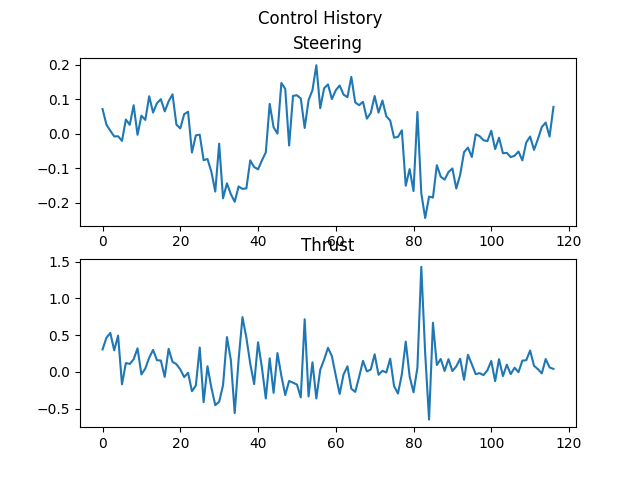
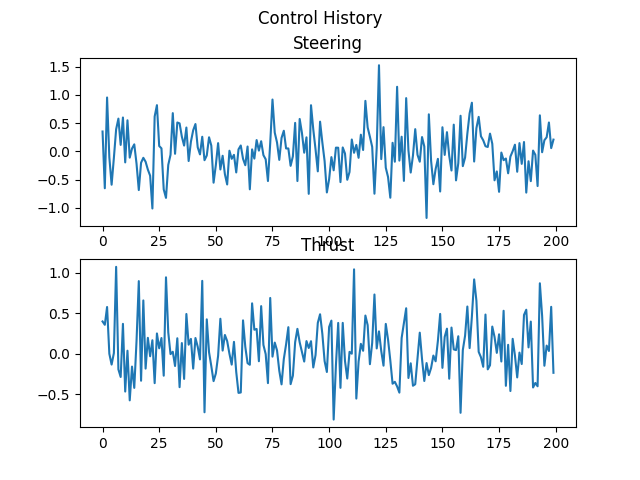
cost_per_step and similar strategy

diff --git a/car_controller.py b/car_controller.py
@@ -29,25 +29,33 @@ import math
 from scipy.integrate import odeint
 
 #Covariance Matrix for the input distribution
-INITIAL_COVARIANCE = [[0.01, 0], [0, 0.1]] 
+INITIAL_COVARIANCE = [[0.0, 0], [0, 0.0]] 
 
 #Covariance matrix for every next-step in the trajectory prediction
-STEP_COVARIANCE = [[0.1,0],[0,0]]
+STEP_COVARIANCE = [[0.2, 0],[0,0.1]]
 NUMBER_OF_STEPS_PER_TRAJECTORY = 30
 
 # Must be between 0 and 1 and defines how close to a random walk the trajectories are
 # 0: The trajectories are calculated by a completely random control with mean = 0 and variance = step_covariance0 
 # 1: The trajectories are a random walk with mean = last control and variance = step_covariance
-RANDOM_WALK = 0.0
+RANDOM_WALK = 0.3
 
 #Number of trajectories that are calculated for every step
-NUMBER_OF_TRAJECTORIES = 100
+NUMBER_OF_INITIAL_TRAJECTORIES = 1000
+
+#Covariance for calculating simmilar controls to the last one
+STRATEGY_COVARIANCE=[[0.01, 0],[0, 0.01]]   
+NUMBER_OF_TRAJECTORIES = 30
+
+NUMBER_OF_NEXT_WAYPOINTS = 50
 
 #With of the race track (ToDo) 
 DIST_TOLLERANCE = 4 
 INVERSE_TEMP = 10
 DRAW_CHOSEN_SEQUENCE = True
 DRAW_TRAJECTORIES = True
+
+MAX_COST = 1000
 
 def column(matrix, i):
         return [row[i] for row in matrix]
@@ -74,10 +82,11 @@ class CarController:
         self.parameters = parameters_vehicle2()
         self.time = 0 #TODO:
         self.tControlSequence = 0.2  # [s] How long is a control input applied
-        self.tEulerStep = 0.05 # [s] One step of solving the ODEINT
+        self.tEulerStep = 0.01 # [s] One step of solving the ODEINT
         self.tHorizon = 4 # [s] TODO How long should routes be calculated
         self.history = [] #Hostory of real car states
         self.simulated_history = [] #Hostory of simulated car states
+        self.simulated_costs = [] #Hostory of simulated car states
         self.car = car
         self.track = self.car.track #Track waypoints for drawing
         self.last_control_input = [0,0]
@@ -85,6 +94,12 @@ class CarController:
         self.collect_distance_costs = []
         self.collect_speed_costs = []
         self.collect_progress_costs = []
+        self.best_control_sequenct = initial_sequence
+        # self.best_control_sequenct = [] #initial_sequence
+        
+        self.update_trackline()
+       
+
 
 
     def set_state(self, state):
@@ -94,6 +109,17 @@ class CarController:
     Dynamics of the simulated car from common road
     We can define different models here
     '''
+
+    def update_trackline(self):
+         # only Next NUMBER_OF_NEXT_WAYPOINTS points of the track
+        waypoint_modulus = self.track.waypoints.copy()
+        waypoint_modulus.extend(waypoint_modulus[:NUMBER_OF_NEXT_WAYPOINTS])
+
+        closest_to_car_position = self.track.get_closest_index(self.state[:2])
+        waypoint_modulus = waypoint_modulus[closest_to_car_position: closest_to_car_position+ NUMBER_OF_NEXT_WAYPOINTS]
+
+        self.trackline = geom.LineString(waypoint_modulus)
+
     def func_KS(self,x, t, u, p):
         # f = vehicle_dynamics_ks(x, u, p)
         f = vehicle_dynamics_st(x, u, p)
@@ -111,8 +137,8 @@ class CarController:
     '''
     def simulate_step(self, state, control_input):
         t = np.arange(0, self.tControlSequence, self.tEulerStep) 
-        x_next = solveEuler(self.func_KS, state, t, args=(control_input, self.parameters))
-        # x_next = odeint(self.func_KS, state, t, args=(control_input, self.parameters))
+        # x_next = solveEuler(self.func_KS, state, t, args=(control_input, self.parameters))
+        x_next = odeint(self.func_KS, state, t, args=(control_input, self.parameters))
         return x_next[-1]
 
     '''
@@ -120,42 +146,70 @@ class CarController:
     @control_inputs: list of control inputs, which last 0.01s each
     '''
     def simulate_trajectory(self, control_inputs):
-
+        original_car_position = geom.Point(self.state[:2])
         simulated_time = self.time
         simulated_state = self.state
         simulated_trajectory = []
+        cost = 0
+        index = 0 
+        number_of_states = len(control_inputs) 
+
+        
+
         for control_input in control_inputs:
+            if cost > MAX_COST:
+                cost = MAX_COST
+                # continue
             simulated_state = self.simulate_step(simulated_state, control_input)
-
             simulated_trajectory.append(simulated_state)
-        return simulated_trajectory
 
+            discount = (number_of_states - 0.5 * index) / number_of_states
+            cost +=  discount * self.cost_per_step(simulated_state)
+            
+            index += 1
 
-    def f(self,x):
-        return 2*x
+        simulated_position = geom.Point(simulated_state[:2])
+        progress = original_car_position.distance(simulated_position)
+        # print("Progress", progress)
+        progress_cost = 2000/progress
+
+        # print("progress_cost", progress_cost)
+        # print("Cost", cost)
+
+        cost = cost + progress_cost
+        # print("Cost for whole trajectory", cost )
+        return simulated_trajectory, cost 
+
 
     '''
     Returns a trajectory for every control input in control_inputs_distribution
     '''
     def simulate_trajectory_distribution(self, control_inputs_distrubution):
         self.simulated_history = []
-        start = time.time()
-        result = []
-        with Pool(8) as p:
-            result = p.map(self.simulate_trajectory, 
-            control_inputs_distrubution) 
-        self.simulated_history = result
-        end = time.time()
-        print("TIME FOR 50 Trajectories")
-        print(end - start)
+        # start = time.time()
+        results = []
+        costs = []
+        for control_input in control_inputs_distrubution:
+            simulated_trajectory, cost = self.simulate_trajectory(control_input)
+            results.append(simulated_trajectory)
+            costs.append(cost)
 
-        return result
+        # with Pool(8) as p:
+        #     results = p.map(self.simulate_trajectory, 
+        #     control_inputs_distrubution) 
+
+        self.simulated_history = results
+        self.simulated_costs = costs
+        # end = time.time()
+        # print("TIME FOR 50 Trajectories")
+        # print(end - start)
+        return results, costs
 
     '''
     Returns a gaussian distribution around the last control input
     '''
     def sample_control_inputs(self, last_control_input):
-        initial_steering, initial_acceleration = np.random.multivariate_normal(last_control_input, INITIAL_COVARIANCE, NUMBER_OF_TRAJECTORIES).T
+        initial_steering, initial_acceleration = np.random.multivariate_normal(last_control_input, INITIAL_COVARIANCE, NUMBER_OF_INITIAL_TRAJECTORIES).T
 
         control_input_sequences = [0]*len(initial_steering)
         for i in range(len(initial_steering)):
@@ -174,10 +228,38 @@ class CarController:
                 control_input_sequences[i].append([step_steering, step_acceleration])
                 next_control_input[0] = step_steering
                 next_control_input[1] = step_acceleration
+        control_input_sequences = np.array(control_input_sequences)
 
-        return np.array(control_input_sequences)
+        return control_input_sequences
 
 
+    def sample_control_inputs_similar_to_last(self, last_control_sequence):
+
+        #Not initialized
+        if(len(last_control_sequence) == 0):
+            return self.sample_control_inputs([0,0])
+
+        #Delete the first step of the last control sequence because it is already done
+        #To keep the length of the control sequence add one to the end
+        last_control_sequence = last_control_sequence[1:]
+        last_control_sequence = np.append(last_control_sequence, [0,0]).reshape(30,2)
+    
+
+        control_input_sequences = []
+
+        for i in range(NUMBER_OF_TRAJECTORIES):
+            next_control_inputs = []
+            
+            for control_input in last_control_sequence:
+                step_steering, step_acceleration = np.random.multivariate_normal(control_input, STRATEGY_COVARIANCE).T
+                next_control_inputs.append([step_steering, step_acceleration])
+
+            control_input_sequences.append(next_control_inputs)
+
+        control_input_sequences = np.array(control_input_sequences)
+        return control_input_sequences
+        
+    
     '''
     calculates the cost of a trajectory
     '''
@@ -185,22 +267,14 @@ class CarController:
 
         max_distance = 5
         
-        # only Next 30 points of the track
-        waypoint_modulus = self.track.waypoints.copy()
-        waypoint_modulus.extend(waypoint_modulus[:50])
-
-        closest_to_car_position = self.track.get_closest_index(self.state[:2])
-        waypoint_modulus = waypoint_modulus[closest_to_car_position: closest_to_car_position+ 30]
-
-        track = geom.LineString(waypoint_modulus)
-
+        track = self.trackline
         distance_cost = 0
         speed_cost = 0
         progress_cost = 0
 
         distance_cost_weight = 1
-        speed_cost_weight = 700
-        progress_cost_weight =700
+        speed_cost_weight = 50
+        progress_cost_weight =200
 
         number_of_critical_states = 10
 
@@ -236,18 +310,64 @@ class CarController:
         # print("Cost", cost)
         return cost
 
+    def cost_per_step(self, state):
+
+        max_distance = 5
+        
+        track =self.trackline
+        distance_cost = 0
+        speed_cost = 0
+        progress_cost = 0
+
+        distance_cost_weight = 1
+        speed_cost_weight = 100
+        # progress_cost_weight =100
+
+        simulated_position = geom.Point(state[0],state[1])
+        distance_to_track = simulated_position.distance(track)
+        speed = state[3]
+        speed_cost +=  speed
+        distance_cost +=  distance_to_track
+        if(distance_to_track > max_distance):
+            distance_cost += 100
+            # print("Potential crash during critical distance")
+      
+
+        # original_car_position = geom.Point(self.state[0],self.state[1])
+        # progress = original_car_position.distance(simulated_position)
+
+        speed_cost = 1 /speed_cost
+        # progress_cost = 1/progress
+
+        self.collect_distance_costs.append(distance_cost)
+        self.collect_speed_costs.append(speed_cost)
+        self.collect_progress_costs.append(progress_cost)
+
+        cost = distance_cost_weight * distance_cost + speed_cost_weight * speed_cost # + progress_cost_weight * progress_cost
+        # print("CostPerStep", cost)
+        cost = max(0,min(cost, 100))
+        # print("Cost_per_step", cost)
+        return cost
+
+
+    
     '''
     Does one step of control and returns the best control input for the next time step
     '''
     def control_step(self):
-
+        self.update_trackline()
         self.last_control_input[0] = min(self.last_control_input[0], 1)
         self.last_control_input[1] = min(self.last_control_input[1], 0.5)
 
-        control_sequences = self.sample_control_inputs(self.last_control_input)
-        # input_samples = u_dist #those are the handcrafted inputs
-        simulated_history = self.simulate_trajectory_distribution( control_sequences )
+        # control_sequences = self.sample_control_inputs(self.last_control_input)
+        control_sequences = self.sample_control_inputs_similar_to_last(self.best_control_sequenct)
 
+
+
+        # input_samples = u_dist #those are the handcrafted inputs
+        simulated_history, costs = self.simulate_trajectory_distribution( control_sequences )
+
+        # print("Costs", costs)
         trajectory_index = 0    
         lowest_cost = 100000
         best_index = 0
@@ -255,13 +375,12 @@ class CarController:
         weights = np.zeros(len(simulated_history))
 
         for trajectory in simulated_history:
-            cost = self.cost_function(trajectory)
-
+            cost = costs[trajectory_index]
             #find best
             if cost < lowest_cost:
                 best_index = trajectory_index
                 lowest_cost = cost
-            
+         
             weight =  math.exp((-1/INVERSE_TEMP) * cost)
             # print("Weight", weight)
             weights[trajectory_index] = weight
@@ -271,8 +390,9 @@ class CarController:
 
         #Finding weighted avg input
         next_control_sequence = np.average(control_sequences,axis=0, weights=weights )
-
-
+        
+        self.best_control_sequenct = next_control_sequence
+        
         return next_control_sequence
         # return best_conrol_sequence
 
@@ -292,18 +412,19 @@ class CarController:
         s_x = []
         s_y = []
         costs = []
+        i = 0
         ind = 0
         indices = []
         for trajectory in self.simulated_history:
-            cost = self.cost_function(trajectory)
+            cost = self.simulated_costs[i]
             for state in trajectory:
                 if(state[0] > 1):
                     s_x.append(state[0])
                     s_y.append(state[1])
                     costs.append(cost)
-                    indices.append(ind)
+                    indices.append(cost)
                     ind += 1
-
+            i += 1
         if(DRAW_TRAJECTORIES):
             trajectory_costs = position_ax.scatter(s_x,s_y, c=indices)
             colorbar = fig.colorbar(trajectory_costs)
@@ -318,8 +439,8 @@ class CarController:
 
         #Draw waypoints
         waypoint_index = self.track.get_closest_index(self.state[:2])
-        w_x = self.track.waypoints_x[waypoint_index:waypoint_index+30]
-        w_y = self.track.waypoints_y[waypoint_index:waypoint_index+30]
+        w_x = self.track.waypoints_x[waypoint_index:waypoint_index+NUMBER_OF_NEXT_WAYPOINTS]
+        w_y = self.track.waypoints_y[waypoint_index:waypoint_index+NUMBER_OF_NEXT_WAYPOINTS]
         position_ax.scatter(w_x,w_y, c ="#000000", label="Next waypoints")
 
         #Plot Chosen Trajectory
